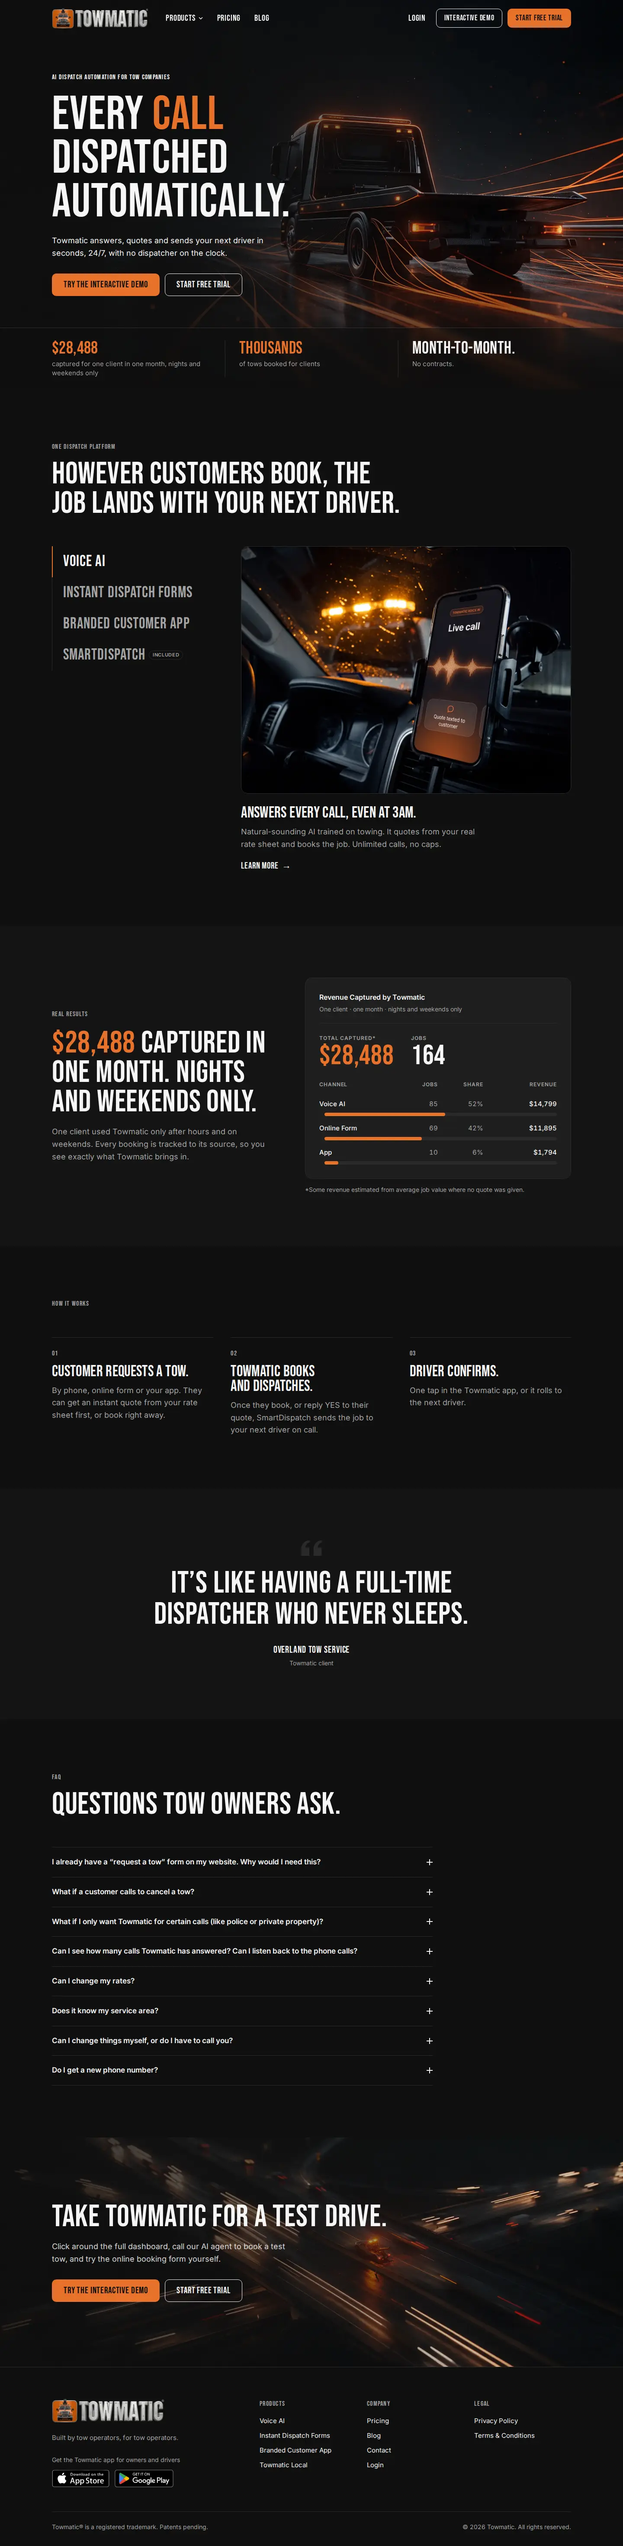
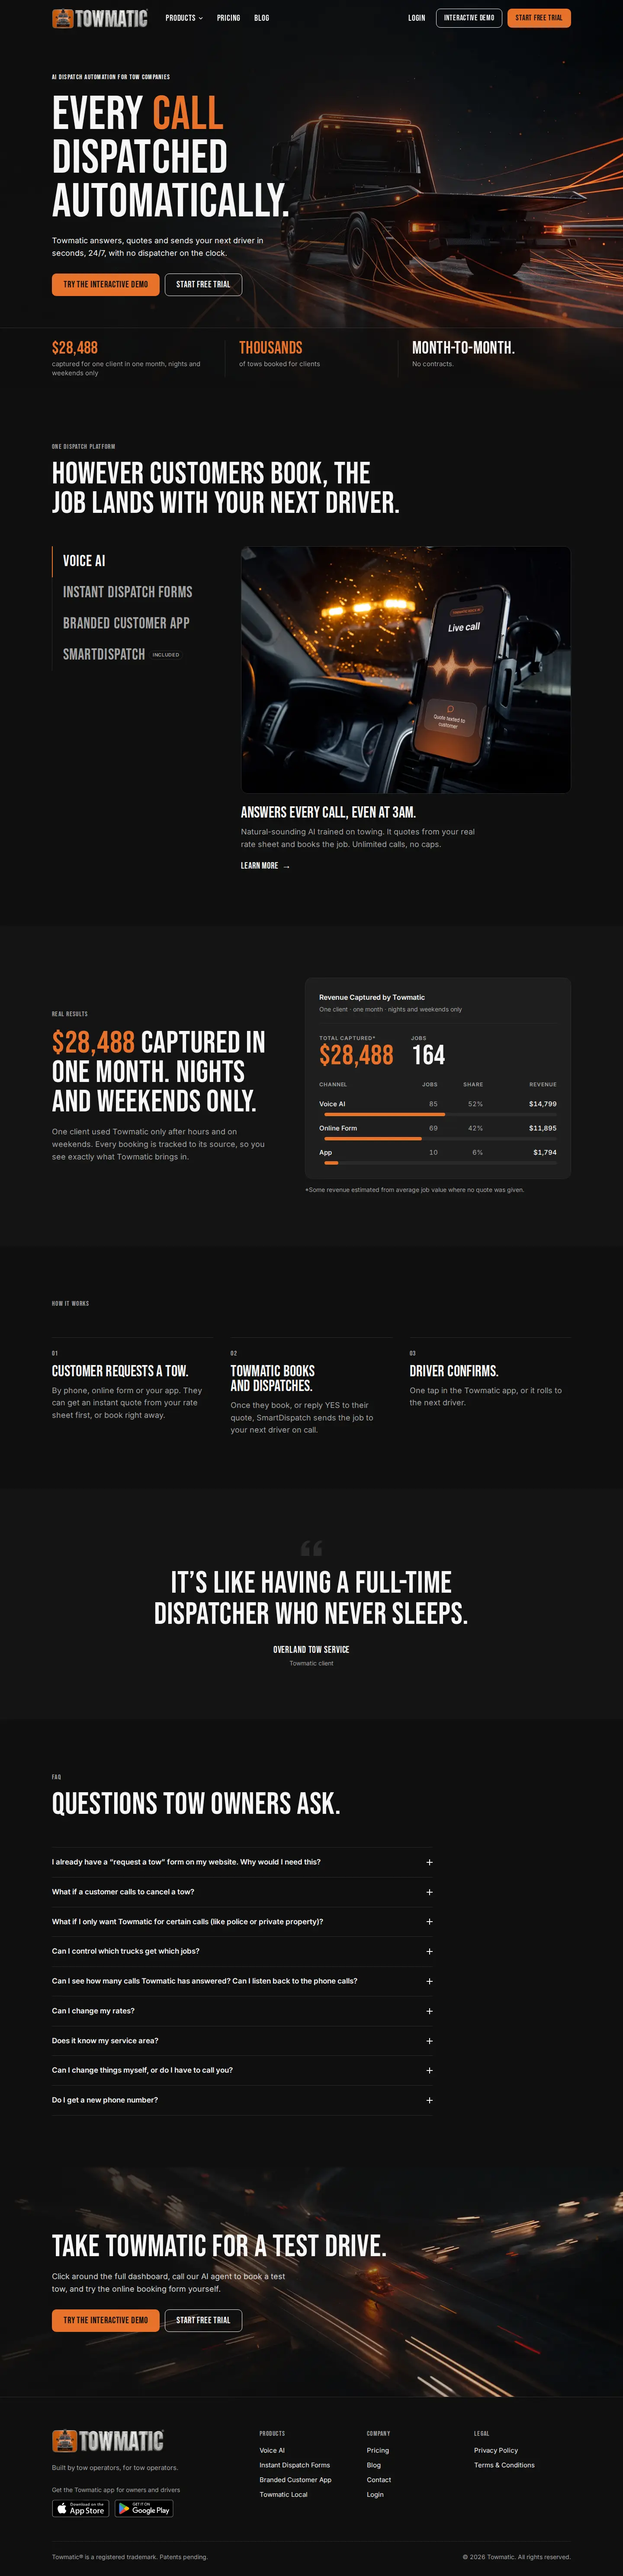
Add dispatch rules by truck type (Always, Only If Needed, Never) to both sites
Claude-Session: https://claude.ai/code/session_01QozjXnkBDgD25Ken8NMvP1

diff --git a/website-no-voice/web-forms.html b/website-no-voice/web-forms.html
@@ -74,6 +74,14 @@
     },
     {
       "@type": "Question",
+      "name": "Can I control which trucks get which jobs?",
+      "acceptedAnswer": {
+        "@type": "Answer",
+        "text": "Yes. You set your own dispatch rules. For each of your trucks, choose whether it takes light, medium and heavy duty jobs Always, Only If Needed, or Never. For example, a heavy duty tow can go only to a heavy duty truck on call, and if none is on call, fall back to a medium duty truck set to Only If Needed."
+      }
+    },
+    {
+      "@type": "Question",
       "name": "Is there a limit on bookings?",
       "acceptedAnswer": {
         "@type": "Answer",
@@ -231,7 +239,7 @@
       <div class="feature__copy reveal">
         <p class="eyebrow">Automatic driver rotation</p>
         <h2 class="feature__title" id="f3-title">The next driver on call gets the job.</h2>
-        <p class="feature__line">SmartDispatch sends a push notification to your next driver, who confirms in the Towmatic app. No confirmation in time? It rolls to the next driver.</p>
+        <p class="feature__line">SmartDispatch sends a push notification to your next driver, who confirms in the Towmatic app. No confirmation in time? It rolls to the next driver. Set your own dispatch rules by truck type, so a heavy duty job only goes to a heavy duty truck, with a fallback you choose.</p>
       </div>
       <div class="feature__visual reveal">
         <img class="shot" src="images/wf-rotation.webp" alt="Towmatic dispatch dashboard showing the on-call rotation: Marcus T. notified and waiting for confirmation, Dave R. next up, Luis M. on call, beside a new ASAP tow job with the quote accepted" width="1600" height="1194" loading="lazy" decoding="async">
@@ -374,6 +382,10 @@
         <details class="faq__item">
           <summary>Which driver gets the job?</summary>
           <p>SmartDispatch sends a push notification to your next driver on call, who confirms in the Towmatic app. If they don’t confirm in time, the job rolls to the next driver.</p>
+        </details>
+        <details class="faq__item">
+          <summary>Can I control which trucks get which jobs?</summary>
+          <p>Yes. You set your own dispatch rules. For each of your trucks, choose whether it takes light, medium and heavy duty jobs Always, Only If Needed, or Never. For example, a heavy duty tow can go only to a heavy duty truck on call, and if none is on call, fall back to a medium duty truck set to Only If Needed.</p>
         </details>
         <details class="faq__item">
           <summary>Is there a limit on bookings?</summary>

diff --git a/website/web-forms.html b/website/web-forms.html
@@ -66,6 +66,14 @@
     },
     {
       "@type": "Question",
+      "name": "Can I control which trucks get which jobs?",
+      "acceptedAnswer": {
+        "@type": "Answer",
+        "text": "Yes. You set your own dispatch rules. For each of your trucks, choose whether it takes light, medium and heavy duty jobs Always, Only If Needed, or Never. For example, a heavy duty tow can go only to a heavy duty truck on call, and if none is on call, fall back to a medium duty truck set to Only If Needed."
+      }
+    },
+    {
+      "@type": "Question",
       "name": "Is there a limit on bookings?",
       "acceptedAnswer": {
         "@type": "Answer",
@@ -232,7 +240,7 @@
       <div class="feature__copy reveal">
         <p class="eyebrow">Automatic driver rotation</p>
         <h2 class="feature__title" id="f3-title">The next driver on call gets the job.</h2>
-        <p class="feature__line">SmartDispatch sends a push notification to your next driver, who confirms in the Towmatic app. No confirmation in time? It rolls to the next driver.</p>
+        <p class="feature__line">SmartDispatch sends a push notification to your next driver, who confirms in the Towmatic app. No confirmation in time? It rolls to the next driver. Set your own dispatch rules by truck type, so a heavy duty job only goes to a heavy duty truck, with a fallback you choose.</p>
       </div>
       <div class="feature__visual reveal">
         <img class="shot" src="images/wf-rotation.webp" alt="Towmatic dispatch dashboard showing the on-call rotation: Marcus T. notified and waiting for confirmation, Dave R. next up, Luis M. on call, beside a new ASAP tow job with the quote accepted" width="1600" height="1194" loading="lazy" decoding="async">
@@ -318,6 +326,10 @@
         <details class="faq__item">
           <summary>Which driver gets the job?</summary>
           <p>SmartDispatch sends a push notification to your next driver on call, who confirms in the Towmatic app. If they don’t confirm in time, the job rolls to the next driver.</p>
+        </details>
+        <details class="faq__item">
+          <summary>Can I control which trucks get which jobs?</summary>
+          <p>Yes. You set your own dispatch rules. For each of your trucks, choose whether it takes light, medium and heavy duty jobs Always, Only If Needed, or Never. For example, a heavy duty tow can go only to a heavy duty truck on call, and if none is on call, fall back to a medium duty truck set to Only If Needed.</p>
         </details>
         <details class="faq__item">
           <summary>Is there a limit on bookings?</summary>

diff --git a/website/index.html b/website/index.html
@@ -120,6 +120,14 @@
     },
     {
       "@type": "Question",
+      "name": "Can I control which trucks get which jobs?",
+      "acceptedAnswer": {
+        "@type": "Answer",
+        "text": "Yes. You set your own dispatch rules. For each of your trucks, choose whether it takes light, medium and heavy duty jobs Always, Only If Needed, or Never. For example, a heavy duty tow can go only to a heavy duty truck on call, and if none is on call, fall back to a medium duty truck set to Only If Needed."
+      }
+    },
+    {
+      "@type": "Question",
       "name": "Can I see how many calls Towmatic has answered? Can I listen back to the phone calls?",
       "acceptedAnswer": {
         "@type": "Answer",
@@ -365,7 +373,7 @@
           </div>
           <div class="platform__copy">
             <h3 class="platform__headline">Your driver rotation, run automatically.</h3>
-            <p class="platform__line">Drivers get a push notification and confirm in the Towmatic app. No confirmation in time? It rolls to the next driver.</p>
+            <p class="platform__line">Drivers get a push notification and confirm in the Towmatic app. Each job goes to the right truck, light, medium or heavy duty, based on rules you set. No confirmation in time? It rolls to the next driver.</p>
           </div>
         </div>
       </div>
@@ -469,6 +477,10 @@
         <details class="faq__item">
           <summary>What if I only want Towmatic for certain calls (like police or private property)?</summary>
           <p>No problem! Towmatic can be customized to only answer certain call types. The choice is yours how you want to use it.</p>
+        </details>
+        <details class="faq__item">
+          <summary>Can I control which trucks get which jobs?</summary>
+          <p>Yes. You set your own dispatch rules. For each of your trucks, choose whether it takes light, medium and heavy duty jobs Always, Only If Needed, or Never. For example, a heavy duty tow can go only to a heavy duty truck on call, and if none is on call, fall back to a medium duty truck set to Only If Needed.</p>
         </details>
         <details class="faq__item">
           <summary>Can I see how many calls Towmatic has answered? Can I listen back to the phone calls?</summary>

diff --git a/website-no-voice/index.html b/website-no-voice/index.html
@@ -110,6 +110,14 @@
     },
     {
       "@type": "Question",
+      "name": "Can I control which trucks get which jobs?",
+      "acceptedAnswer": {
+        "@type": "Answer",
+        "text": "Yes. You set your own dispatch rules. For each of your trucks, choose whether it takes light, medium and heavy duty jobs Always, Only If Needed, or Never. For example, a heavy duty tow can go only to a heavy duty truck on call, and if none is on call, fall back to a medium duty truck set to Only If Needed."
+      }
+    },
+    {
+      "@type": "Question",
       "name": "Can I see every booking Towmatic takes?",
       "acceptedAnswer": {
         "@type": "Answer",
@@ -320,7 +328,7 @@
           </div>
           <div class="platform__copy">
             <h3 class="platform__headline">Your driver rotation, run automatically.</h3>
-            <p class="platform__line">Drivers get a push notification and confirm in the Towmatic app. No confirmation in time? It rolls to the next driver.</p>
+            <p class="platform__line">Drivers get a push notification and confirm in the Towmatic app. Each job goes to the right truck, light, medium or heavy duty, based on rules you set. No confirmation in time? It rolls to the next driver.</p>
           </div>
         </div>
       </div>
@@ -436,6 +444,10 @@
         <details class="faq__item">
           <summary>What if I only want Towmatic for certain jobs (like police or private property)?</summary>
           <p>No problem! You choose which booking forms to use (ASAP tow, ASAP service, scheduled, private property, fleet/account, police or motor club) and where to share them. The choice is yours how you want to use it.</p>
+        </details>
+        <details class="faq__item">
+          <summary>Can I control which trucks get which jobs?</summary>
+          <p>Yes. You set your own dispatch rules. For each of your trucks, choose whether it takes light, medium and heavy duty jobs Always, Only If Needed, or Never. For example, a heavy duty tow can go only to a heavy duty truck on call, and if none is on call, fall back to a medium duty truck set to Only If Needed.</p>
         </details>
         <details class="faq__item">
           <summary>Can I see every booking Towmatic takes?</summary>

diff --git a/website/ai-voice-agent-tow-dispatch.html b/website/ai-voice-agent-tow-dispatch.html
@@ -77,7 +77,7 @@
       "name": "Can I control which trucks take which calls?",
       "acceptedAnswer": {
         "@type": "Answer",
-        "text": "Yes. You set which of your trucks can take light, medium and heavy duty calls — always, only if nothing else is available, or never. A heavy duty call goes to a heavy duty truck."
+        "text": "Yes. You set which of your trucks can take light, medium and heavy duty calls: Always, Only If Needed, or Never. A heavy duty call goes to a heavy duty truck."
       }
     },
     {
@@ -320,7 +320,7 @@
         </details>
         <details class="faq__item">
           <summary>Can I control which trucks take which calls?</summary>
-          <p>Yes. You set which of your trucks can take light, medium and heavy duty calls — always, only if nothing else is available, or never. A heavy duty call goes to a heavy duty truck.</p>
+          <p>Yes. You set which of your trucks can take light, medium and heavy duty calls: Always, Only If Needed, or Never. A heavy duty call goes to a heavy duty truck.</p>
         </details>
         <details class="faq__item">
           <summary>What if I don’t do medium duty?</summary>

diff --git a/website-no-voice/pricing.html b/website-no-voice/pricing.html
@@ -378,7 +378,7 @@
         <h2 class="section-title" id="every-title">What’s included with every plan.</h2>
       </header>
       <ul class="place-grid place-grid--3 reveal">
-        <li><b>Automatic dispatch</b><span>SmartDispatch sends each job to your next driver on call.</span></li>
+        <li><b>Automatic dispatch</b><span>SmartDispatch sends each job to your next driver on call, matched to the right truck.</span></li>
         <li><b>Driver confirmation</b><span>SmartConfirm rolls the job to the next driver if it isn’t confirmed in time.</span></li>
         <li><b>Towmatic driver app</b><span>Push notifications and one-tap Confirm Dispatch.</span></li>
         <li><b>Your dashboard</b><span>Every booking tracked to its source.</span></li>

diff --git a/website/pricing.html b/website/pricing.html
@@ -440,7 +440,7 @@
         <h2 class="section-title" id="every-title">What’s included with every plan.</h2>
       </header>
       <ul class="place-grid place-grid--3 reveal">
-        <li><b>Automatic dispatch</b><span>SmartDispatch sends each job to your next driver on call.</span></li>
+        <li><b>Automatic dispatch</b><span>SmartDispatch sends each job to your next driver on call, matched to the right truck.</span></li>
         <li><b>Driver confirmation</b><span>SmartConfirm rolls the job to the next driver if it isn’t confirmed in time.</span></li>
         <li><b>Towmatic driver app</b><span>Push notifications and one-tap Confirm Dispatch.</span></li>
         <li><b>Your dashboard</b><span>Every booking tracked to its source.</span></li>

diff --git a/website-no-voice/HANDOFF.md b/website-no-voice/HANDOFF.md
@@ -285,6 +285,10 @@ These are intentional. Build them as shown in the prototype.
 
 - **No "live the same day" claim** for Instant Dispatch Forms anywhere (removed at the owner's request).
 - **Start Free Trial** buttons go to `/signup`.
+- **Dispatch rules by truck type:** owners set each truck to take light, medium and heavy duty jobs **Always, Only
+  If Needed, or Never** (use these exact setting names). Shown in a homepage FAQ and a Web Forms FAQ ("Can I control
+  which trucks get which jobs?"), the homepage SmartDispatch tab, the Web Forms dispatch section and the Pricing
+  "Every plan" tile.
 - **Quotes are optional on the forms.** ASAP Tow, ASAP Service and Scheduled each come in two versions: quote first
   (dispatched when the customer replies YES) or book now (dispatched right away, no quote). Never write that every
   form or every booking is quoted.

diff --git a/website/HANDOFF.md b/website/HANDOFF.md
@@ -279,6 +279,10 @@ These are intentional. Build them as shown in the prototype.
 
 - **No "live the same day" claim** for Instant Dispatch Forms anywhere (removed at the owner's request).
 - **Start Free Trial** buttons go to `/signup`.
+- **Dispatch rules by truck type:** owners set each truck to take light, medium and heavy duty jobs **Always, Only
+  If Needed, or Never** (use these exact setting names). Shown in a homepage FAQ and a Web Forms FAQ ("Can I control
+  which trucks get which jobs?"), the homepage SmartDispatch tab, the Web Forms dispatch section and the Pricing
+  "Every plan" tile.
 - **Quotes are optional on the forms.** ASAP Tow, ASAP Service and Scheduled each come in two versions: quote first
   (dispatched when the customer replies YES) or book now (dispatched right away, no quote). Never write that every
   form or every booking is quoted.
